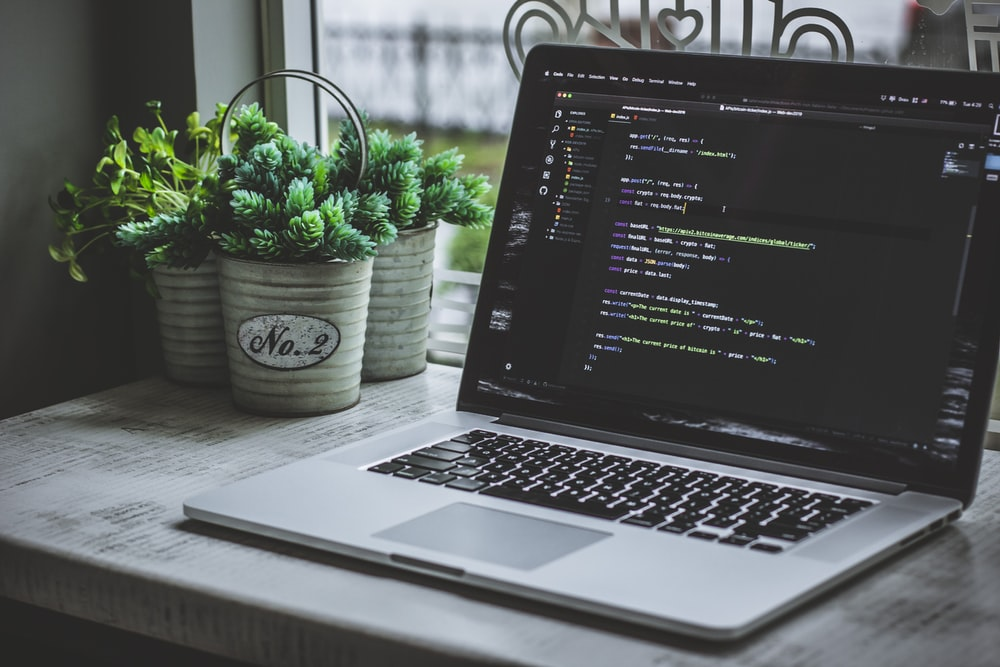
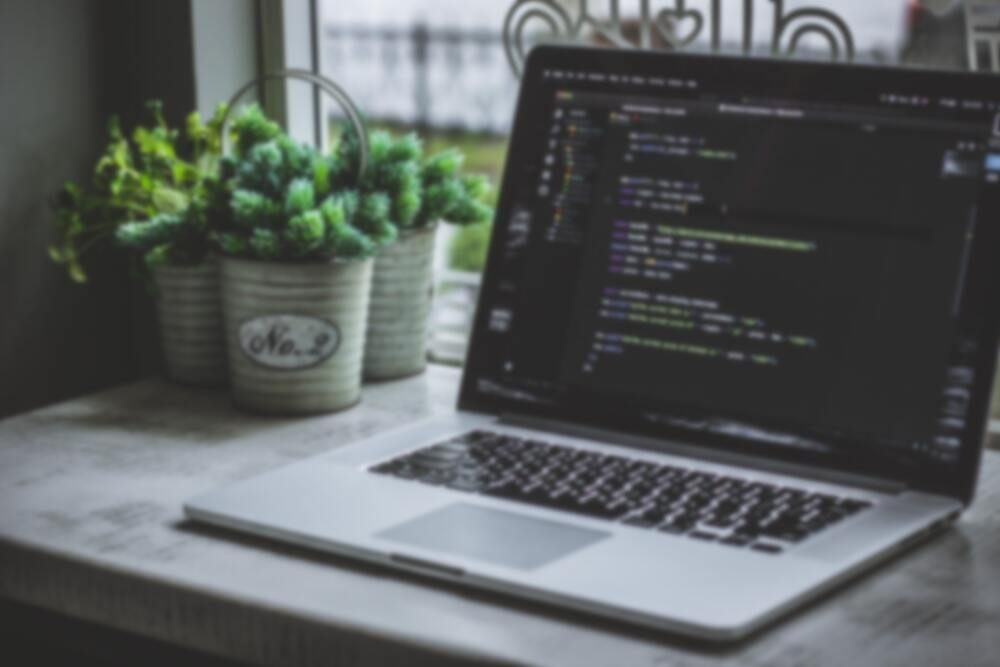
a

diff --git a/TalentHunt/Registration/templates/Registration/Intro.html b/TalentHunt/Registration/templates/Registration/Intro.html
@@ -6,7 +6,7 @@
         <style>
             * {box-sizing: border-box;}
             html,body {
-                font-family: Verdana, sans-serif;
+                font-family: 'Trebuchet MS', 'Lucida Sans Unicode', 'Lucida Grande', 'Lucida Sans', Arial, sans-serif;
                 margin:0;
                 padding:0;
                 height: 93.5%;
@@ -22,20 +22,62 @@
                 padding-right: 20px;
             }
 
-            .navbar-link {
+            .navbar-link{
                 font-size: 1.1em !important;
             }
 
             .carousel-inner img {
                 width: 100%;
                 height: 100%;
+                filter: blur(8px);
+                -webkit-filter: blur(8px);
             }
 
             .carousel-caption {
+                font-family: 'Trebuchet MS', 'Lucida Sans Unicode', 'Lucida Grande', 'Lucida Sans', Arial, sans-serif;
                 position: absolute;
                 top: 50%;
                 transform: translateY(-50%);
-                text-shadow: 1px 1px 10px black;
+                text-shadow: 1px 1px 20px #222;
+            }
+
+            .button {
+                border-radius: 4px;
+                background-color: #f4511e;
+                border: none;
+                color: #FFFFFF;
+                text-align: center;
+                font-size: 20px;
+                padding: 20px;
+                width: 170px;
+                transition: all 0.5s;
+                cursor: pointer;
+                margin: 5px;
+            }
+
+            .button span {
+                cursor: pointer;
+                display: inline-block;
+                position: relative;
+                transition: 0.5s;
+            }
+
+            .button span:after {
+                content: '\00bb';
+                position: absolute;
+                opacity: 0;
+                top: 0;
+                right: -20px;
+                transition: 0.5s;
+            }
+
+            .button:hover span {
+                padding-right: 25px;
+            }
+
+            .button:hover span:after {
+                opacity: 1;
+                right: 0;
             }
 
         </style>
@@ -55,7 +97,7 @@
                     <li class="nav-item active">
                         <a class="nav-link" href="{% url 'Registration:Login' %}">LogIn <span class="sr-only">(current)</span></a>
                     </li>
-                    <li class="nav-item">
+                    <li class="nav-item active">
                         <a class="nav-link" href="{% url 'Registration:SignUp' %}">SignUp</a>
                     </li>
                 </ul>
@@ -70,23 +112,26 @@
             </ol>
             <div class="carousel-inner">
                 <div class="carousel-item active">
-                    <img src="{% static 'Registration\Images\Background1.jpg' %}" style="height: 100%;" alt="img 1">
+                    <img src="{% static 'Registration\Images\BackGround2.jpg' %}" style="height: 100%;" alt="img 1">
                     <div class="carousel-caption">
                         <h1 class="display-2">Talent Hunt</h1>
-                        <h3>When talent counts... Count on us...</h3>
+                        <h4>When talent counts... Count on us...</h4>
+                        <br>
                         <form action = "{% url 'Registration:Login' %}" method="GET">
-                                <button type='submit' class="btn btn-primary btn-lg">Get Started</button>
+                                <button class="button" type='submit'>
+                                    <span>Get Started</span>
+                                </button>
                         </form>
                     </div>
                 </div>
                 <div class="carousel-item">
-                    <img src="{% static 'Registration\Images\Background2.jpg' %}" style="height: 100%;" alt="img 2">
+                    <img src="{% static 'Registration\Images\BackGround1.jpg' %}" style="height: 100%;" alt="img 2">
                     <div class="carousel-caption">
-                        <h2 style="color:ghostwhite;">We believe that when the right talent meets the right opportunoity in a company with the right philosophy, prodigious transformations can happen.</h2>
+                        <h2>We believe that when the right talent<br>meets the right opportunoity<br>in a company<br>with the right philosophy,<br>prodigious transformations can happen...</h2>
                     </div>
                 </div>
                 <div class="carousel-item">
-                    <img src="{% static 'Registration\Images\Background3.jpg' %}" style="height: 100%;" alt="img 3">
+                    <img src="{% static 'Registration\Images\BackGround3.jpg' %}" style="height: 100%;" alt="img 3">
                     <div class="carousel-caption">
                         <h2>Contact Us:</h2>
                         <h5>+91 91807 05032</h5>
